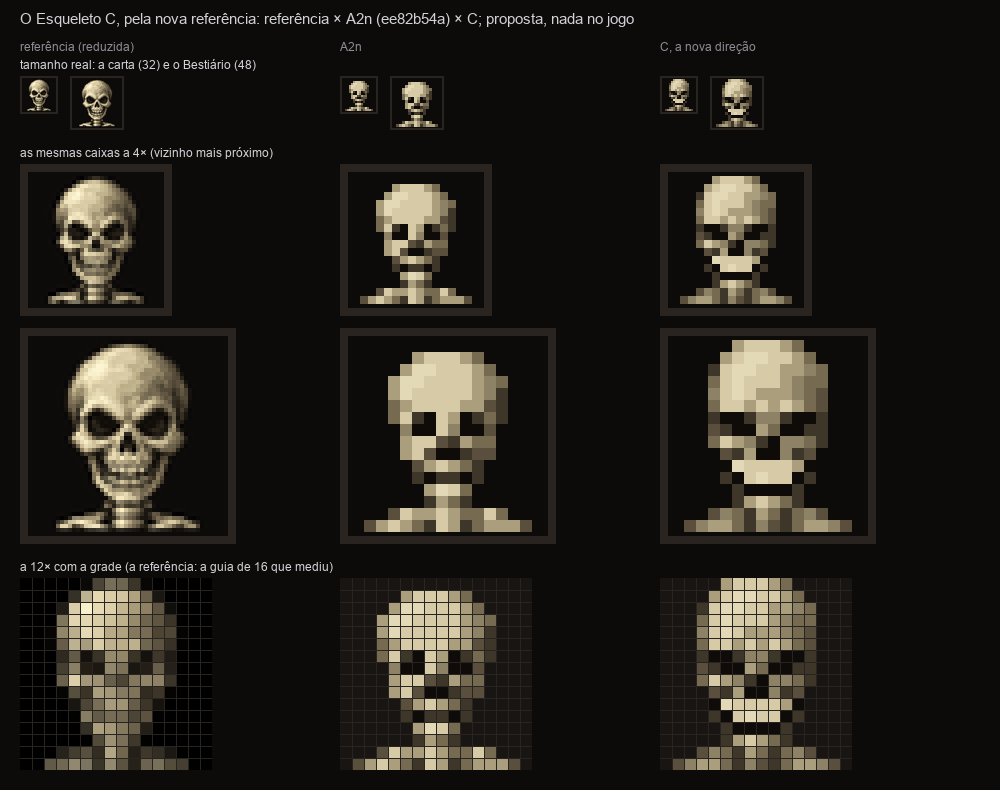
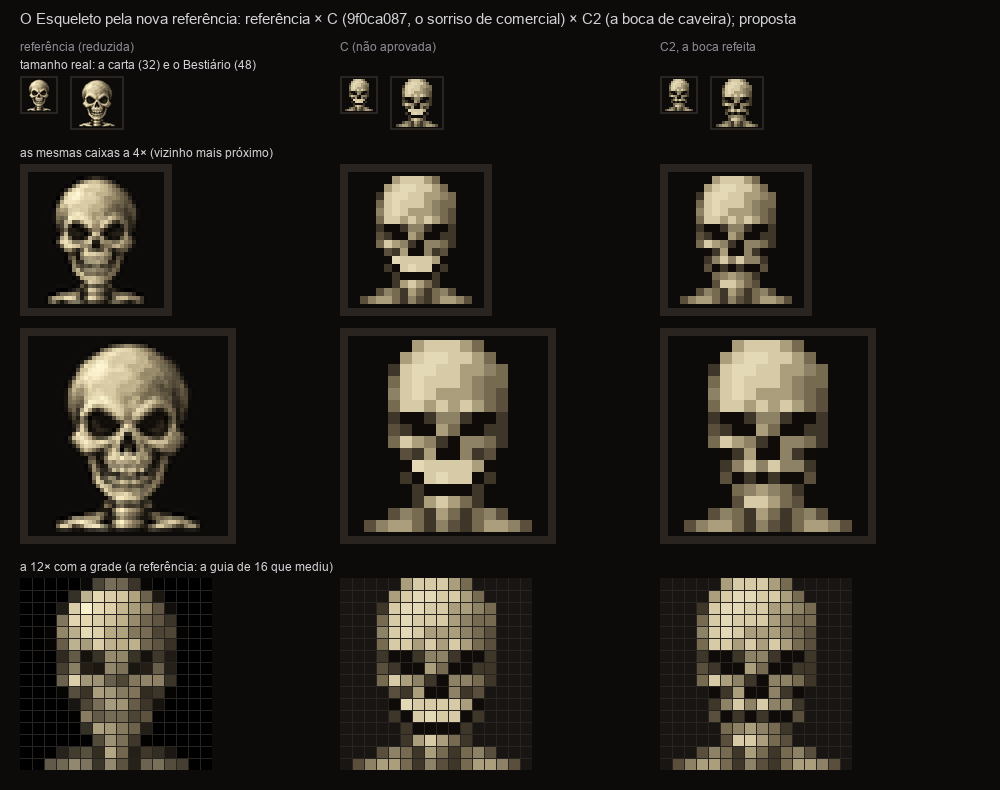
Proposta: o Esqueleto C2, a boca de caveira (nada no jogo)
O Jean achou o sorriso da C de propaganda de TV, não de caveira. Pesquisadas as
caveiras pequenas do OpenGameArt (CC0, só a construção): os dentes ficam num
tom médio com as costuras, presos entre o maxilar e a mandíbula claros, e os
cantos se perdem nas cavidades; na C, o bloco dos dentes era o tom mais claro
dentro de um U escuro.

O C2 refaz só as linhas 9 a 13 (a C preservada): os cantos pretos nas
cavidades sob as maçãs, a fileira de cima alternando o claro e o médio, a
costura escura, os dentes de baixo em tom médio e a mandíbula clara em volta.
Retocado numa cópia da fonte pelo conector; releitura sem diferenças, guia
oculta intacta, exportação igual à grade, 32 e 48 em blocos inteiros. A folha
esqueleto-c.png: referência x C x C2.

diff --git a/ferramentas/prototipos/hud/criaturas/rainha_esqueleto/auxiliares/prancha.py b/ferramentas/prototipos/hud/criaturas/rainha_esqueleto/auxiliares/prancha.py
@@ -331,12 +331,12 @@ def folha_sorriso():
 
 
 def folha_c():
-    """A nova direção (esqueleto-c.png): a referência gerada (reduzida) × A2n × C, na carta (32) e no Bestiário (48) em
+    """A nova direção (esqueleto-c.png): a referência gerada (reduzida) × C (o U claro, não aprovado) × C2 (a boca refeita), na carta (32) e no Bestiário (48) em
     tamanho real, as mesmas caixas a 4× e a 12× com a grade (a referência: a guia de 16), sem suavização."""
     f, f2 = ImageFont.truetype("arial.ttf", 15), ImageFont.truetype("arial.ttf", 12)
     out = Image.new("RGBA", (1000, 900), CARVAO)
     d = ImageDraw.Draw(out)
-    d.text((20, 10), "O Esqueleto C, pela nova referência: referência × A2n (ee82b54a) × C; proposta, nada no jogo", fill=TEXTO, font=f)
+    d.text((20, 10), "O Esqueleto pela nova referência: referência × C (9f0ca087, o sorriso de comercial) × C2 (a boca de caveira); proposta", fill=TEXTO, font=f)
     ref = Image.open(AQUI.parents[5] / "ferramentas/arte/referencias/icones/Caveira esquelética sombria em pixel art.png").convert("RGBA")
     fundo = Image.new("RGBA", ref.size, (13, 11, 10, 255)); fundo.alpha_composite(ref)
 
@@ -344,8 +344,8 @@ def folha_c():
         cx = Image.new("RGBA", (lado + 6, lado + 6), (42, 36, 32, 255)); cx.paste((13, 11, 10, 255), (2, 2, lado + 4, lado + 4))
         cx.alpha_composite(im, (3, 3)); return cx
     colunas = [("referência (reduzida)", lambda lado: fundo.resize((lado, lado), Image.LANCZOS), None),
-               ("A2n", lambda lado: amplia(imagem("esqueleto-a2n"), lado // 16), "esqueleto-a2n"),
-               ("C, a nova direção", lambda lado: amplia(imagem("esqueleto-c"), lado // 16), "esqueleto-c")]
+               ("C (não aprovada)", lambda lado: amplia(imagem("esqueleto-c"), lado // 16), "esqueleto-c"),
+               ("C2, a boca refeita", lambda lado: amplia(imagem("esqueleto-c2"), lado // 16), "esqueleto-c2")]
     y = 40
     for j, (rot, _, _) in enumerate(colunas):
         d.text((20 + j * 320, y), rot, fill=TEXTO2, font=f2)

diff --git a/ferramentas/prototipos/hud/criaturas/rainha_esqueleto/auxiliares/grades.py b/ferramentas/prototipos/hud/criaturas/rainha_esqueleto/auxiliares/grades.py
@@ -181,6 +181,15 @@ ESQUELETO_C = [
 ]
 
 
+# C2 (21/10/2026, pedido do Jean): a boca da C (o U claro) lia como um sorriso de comercial; refeita pelas caveiras
+# pequenas de referência (OpenGameArt, "pixel art skull" de FancySnacks e "Skull Rework" de AntumDeluge, CC0): os dentes
+# num tom médio com as costuras, presos entre o maxilar e a mandíbula claros, não o tom mais claro do rosto. A fileira
+# de cima vai de uma cavidade à outra (os cantos subindo nelas), a costura escura com os vãos, os dentes de baixo e a
+# mandíbula clara em volta. O crânio, as órbitas, o nariz e as maçãs da C não mudam.
+ESQUELETO_C2 = list(ESQUELETO_C)
+ESQUELETO_C2[9:14] = ["....kDokkmDk....", "....DmOmOmmD....", "....nkDkDkkn....", ".....dmomdD.....", ".....nOOodn....."]
+
+
 def _rainha(patas, marca_ate):
     return lambda x, y, ch: ("olhos" if ch in "Pu" else "marca" if ch in "Gg" and y <= marca_ate else "presas" if ch in "Gg"
                              else "patas" if patas(x, y, ch) else "corpo")
@@ -206,6 +215,8 @@ CAMADAS = {
                      lambda x, y, ch: "cavidades" if ch == "k" else "pescoco" if y >= 13 else "cranio"),
     "esqueleto-c": (ESQUELETO_C, ["pescoco", "cranio", "cavidades"],
                     lambda x, y, ch: "cavidades" if ch == "k" else "pescoco" if y >= 14 else "cranio"),
+    "esqueleto-c2": (ESQUELETO_C2, ["pescoco", "cranio", "cavidades"],
+                     lambda x, y, ch: "cavidades" if ch == "k" else "pescoco" if y >= 14 else "cranio"),
     "esqueleto-b": (ESQUELETO_B, ["pescoco", "cranio", "orbitas"], _esqueleto(lambda x, y: y >= 13 or (y == 12 and x >= 11))),
 }
 

diff --git a/ferramentas/prototipos/hud/criaturas/rainha_esqueleto/LEIA-ME.md b/ferramentas/prototipos/hud/criaturas/rainha_esqueleto/LEIA-ME.md
@@ -173,6 +173,24 @@ Cabeças de 16×16 no formato dos retratos de carta aprovados (sem contorno, cor
   e lê a 32 px; limites: os dentes de baixo se juntam ao queixo, e o crânio, mais largo, fica mais pesado na carta que o
   A2n.
 
+### C2: a boca de caveira (21/10/2026, proposta)
+
+- **Jean, sobre a C:** o sorriso ficou de propaganda de TV, não de caveira; pesquisar referências.
+- **A pesquisa** (OpenGameArt, CC0, só para estudar a construção; nada copiado):
+  [pixel art skull](https://opengameart.org/content/pixel-art-skull) (FancySnacks, 16×16) e
+  [Skull Rework](https://opengameart.org/content/skull-rework) (AntumDeluge, com as versões de 9×13 e 10×13). Nas
+  caveiras pequenas, a boca fica fechada: os dentes num **tom médio**, com as costuras escuras, presos entre o maxilar e
+  a mandíbula, que são o osso claro; os cantos se perdem nas cavidades. Na C, o bloco dos dentes era o tom mais claro do
+  rosto dentro de um U escuro: a leitura de dentes brancos num sorriso.
+- **O ajuste** (`esqueleto-c2`, só as linhas 9 a 13; o crânio, as órbitas, o nariz e as maçãs da C iguais; a C
+  preservada): os cantos pretos subindo nas cavidades sob as maçãs; a fileira de cima de uma cavidade à outra, os dentes
+  alternando o claro e o médio; a costura escura com os vãos; os dentes de baixo em tom médio; a mandíbula clara
+  embaixo, envolvendo a boca. Na bancada, as duas fileiras encaixadas (D2) embaralhavam o nariz e a boca, e a fileira
+  curta (D1) ficava contida demais.
+- **Processo:** uma cópia da fonte da C retocada no editor pelo conector (`pintar.lua`; releitura das três camadas, 0
+  diferentes; a guia oculta intacta; o composto 144); a exportação igual à grade, @2x exato, 32 e 48 em blocos inteiros.
+  A folha `esqueleto-c.png` passou a mostrar a referência × C × C2.
+
 ## Avaliação (a minha leitura a 32 px; quem aprova é o Jean)
 
 - **Rainha A (minha preferência):** é claramente a mesma espécie da Aranha gigante, maior e mais pesada; a ampulheta

diff --git a/roadmapIDEIAS/23-PLANO-DE-ARTE-INTERFACE-E-COMBATE.md b/roadmapIDEIAS/23-PLANO-DE-ARTE-INTERFACE-E-COMBATE.md
@@ -960,7 +960,8 @@ pela família (o servo aliado do Necromante e os chefes mortos-vivos fora); as f
 invoca continuam com o retrato da Aranha gigante); a folha `rainha-final.png`. O Esqueleto segue no protótipo: o
 A2 (o A desenvolvido pela referência gerada do Jean; a folha `esqueleto-a2.png`) e o A2n (o nariz refeito;
 `esqueleto-a2n.png`, a base aprovada); sobre ele, o sorriso contido e o marcado (S1 e S2, `esqueleto-sorriso.png`),
-não aprovados; o C, a nova direção pela segunda referência gerada (`esqueleto-c.png`), aguarda avaliação.
+não aprovados; o C, a nova direção pela segunda referência gerada, não aprovado (o sorriso de comercial); o C2, com a boca refeita pelas
+caveiras pequenas de referência (`esqueleto-c.png`), aguarda avaliação.
 
 **Pendências registradas (21/10/2026, pedido do Jean; levantamento antes de desenhar):**
 - **A figura do animal no acampamento, por tipo de animal** (o lobo, o urso e o falcão do patrulheiro): conferir se

diff --git a/roadmapIDEIAS/00-COMECE-AQUI.md b/roadmapIDEIAS/00-COMECE-AQUI.md
@@ -5645,3 +5645,11 @@ Tudo no protótipo (`ferramentas/prototipos/hud/LEIA-ME.md`, as seções de mesm
 - **Feito:** `esqueleto-c` (a guia oculta, a fonte pelo conector, a exportação e os derivados conferidos) e a folha
   `esqueleto-c.png`, em `ferramentas/prototipos/hud/criaturas/rainha_esqueleto/`.
 - **Continua:** a avaliação do Jean; nada no jogo.
+
+### 21/10/2026 (data do computador local) — O Esqueleto C2: a boca de caveira, só no protótipo
+
+- **Jean, sobre a C:** sorriso de propaganda de TV, não de caveira; pesquisar referências.
+- **Feito:** pesquisadas as caveiras pequenas do OpenGameArt (CC0; os dentes em tom médio entre o maxilar e a
+  mandíbula claros, os cantos nas cavidades); `esqueleto-c2` com só a boca refeita (a C preservada), retocado pelo
+  conector e conferido; a folha `esqueleto-c.png` com a referência × C × C2.
+- **Continua:** a avaliação do Jean; nada no jogo.

diff --git a/ferramentas/prototipos/hud/criaturas/LEIA-ME.md b/ferramentas/prototipos/hud/criaturas/LEIA-ME.md
@@ -137,8 +137,8 @@ A escolha do par e da direção é do Jean; nada foi começado.
   separados (o inimigo, os invocados pelo Lich, o servo aliado, os chefes). A Rainha A entrou na 1.168.0; o Esqueleto
   continua em proposta: o A2 (o A desenvolvido pela referência gerada, `esqueleto-a2.png`) e o A2n (o mesmo com o nariz refeito,
   `esqueleto-a2n.png`, a base aprovada); sobre ele, o sorriso contido (S1) e o marcado (S2),
-  `esqueleto-sorriso.png`, não aprovados; o C, a nova direção pela segunda referência gerada (`esqueleto-c.png`),
-  aguarda o Jean.
+  `esqueleto-sorriso.png`, não aprovados; o C, a nova direção pela segunda referência gerada, não aprovado (o sorriso de comercial);
+  o C2, com a boca de caveira (`esqueleto-c.png`), aguarda o Jean.
 
 ## Reservado
 
